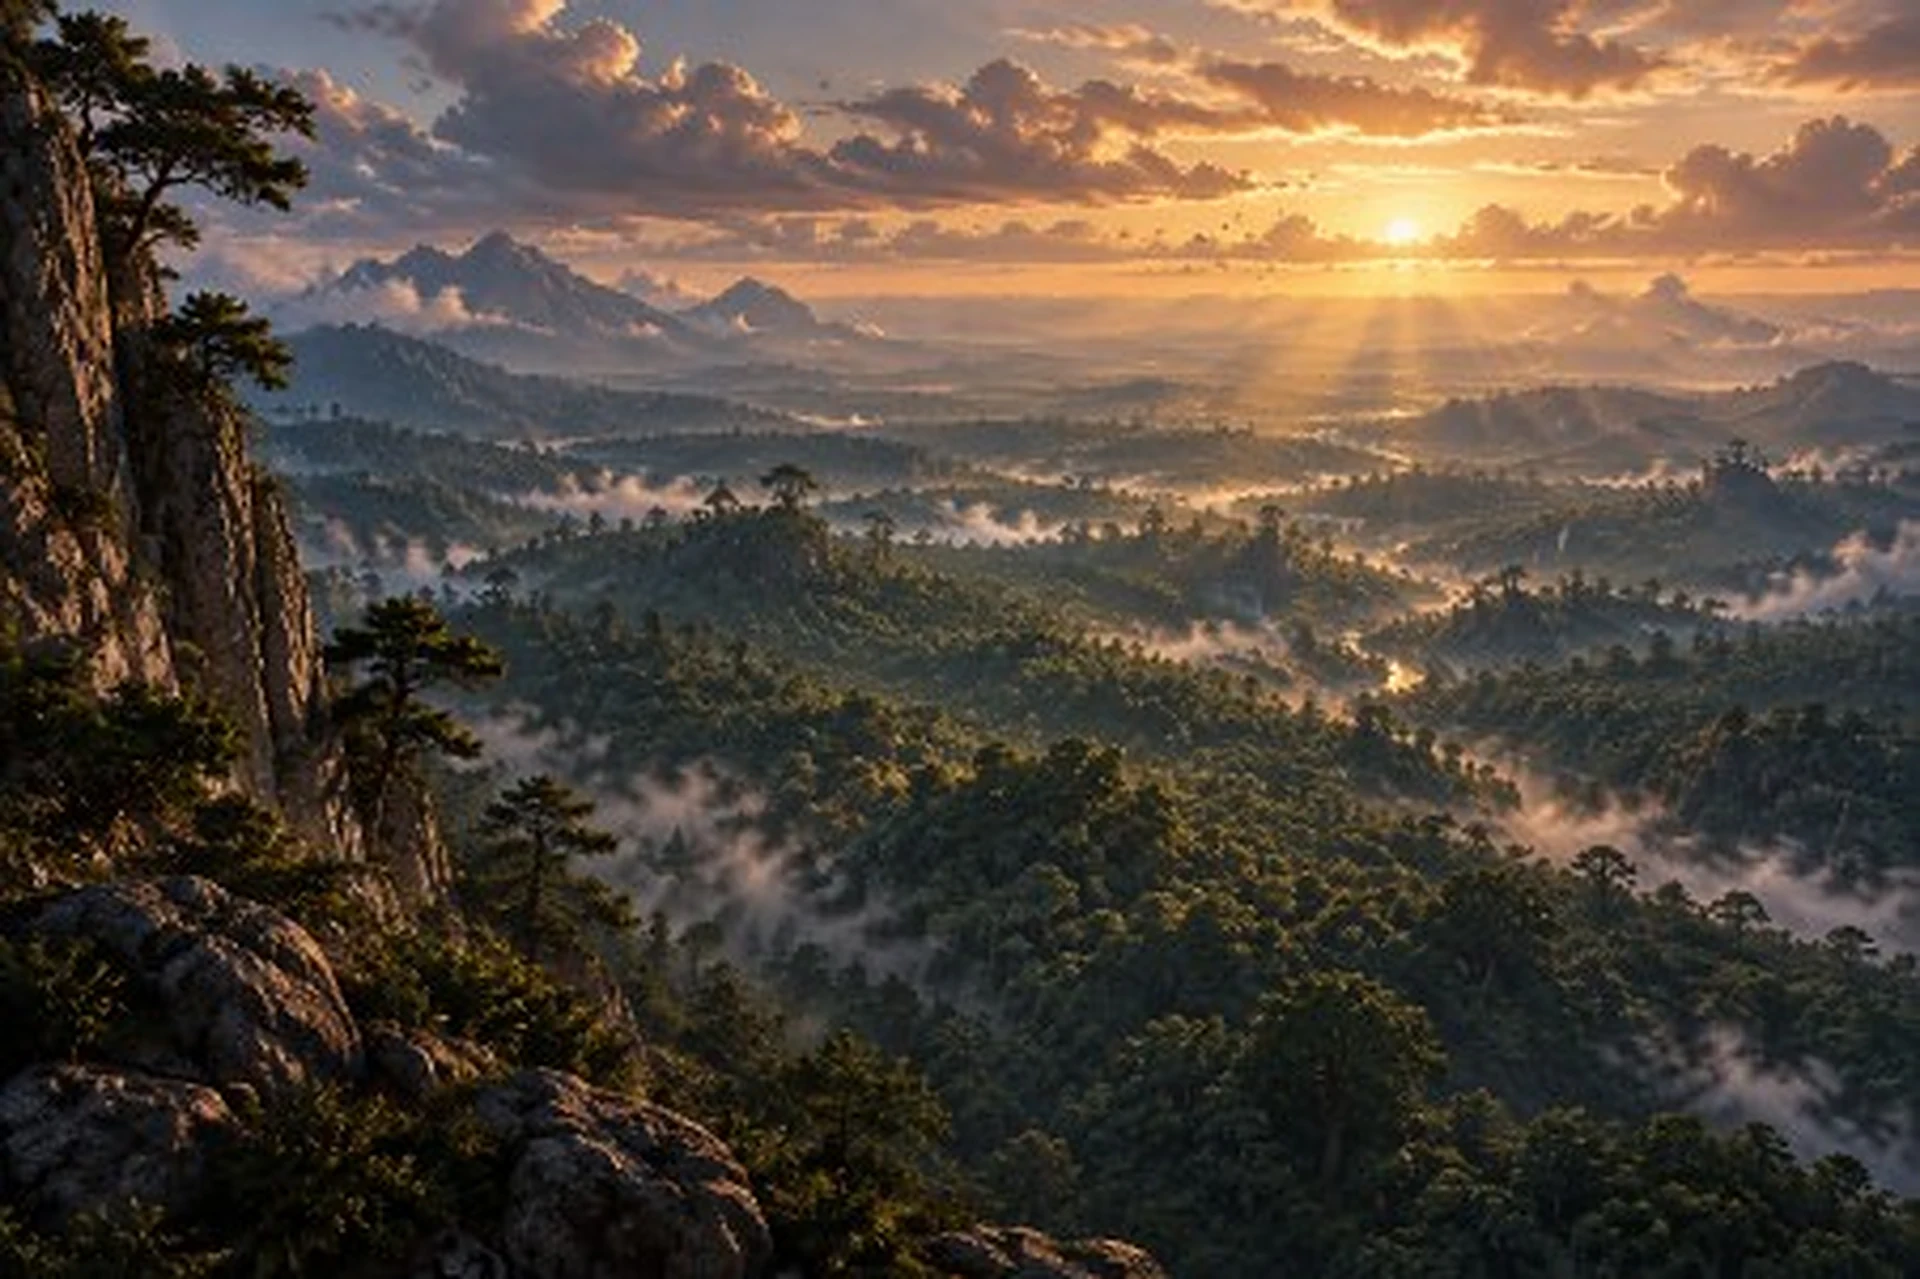
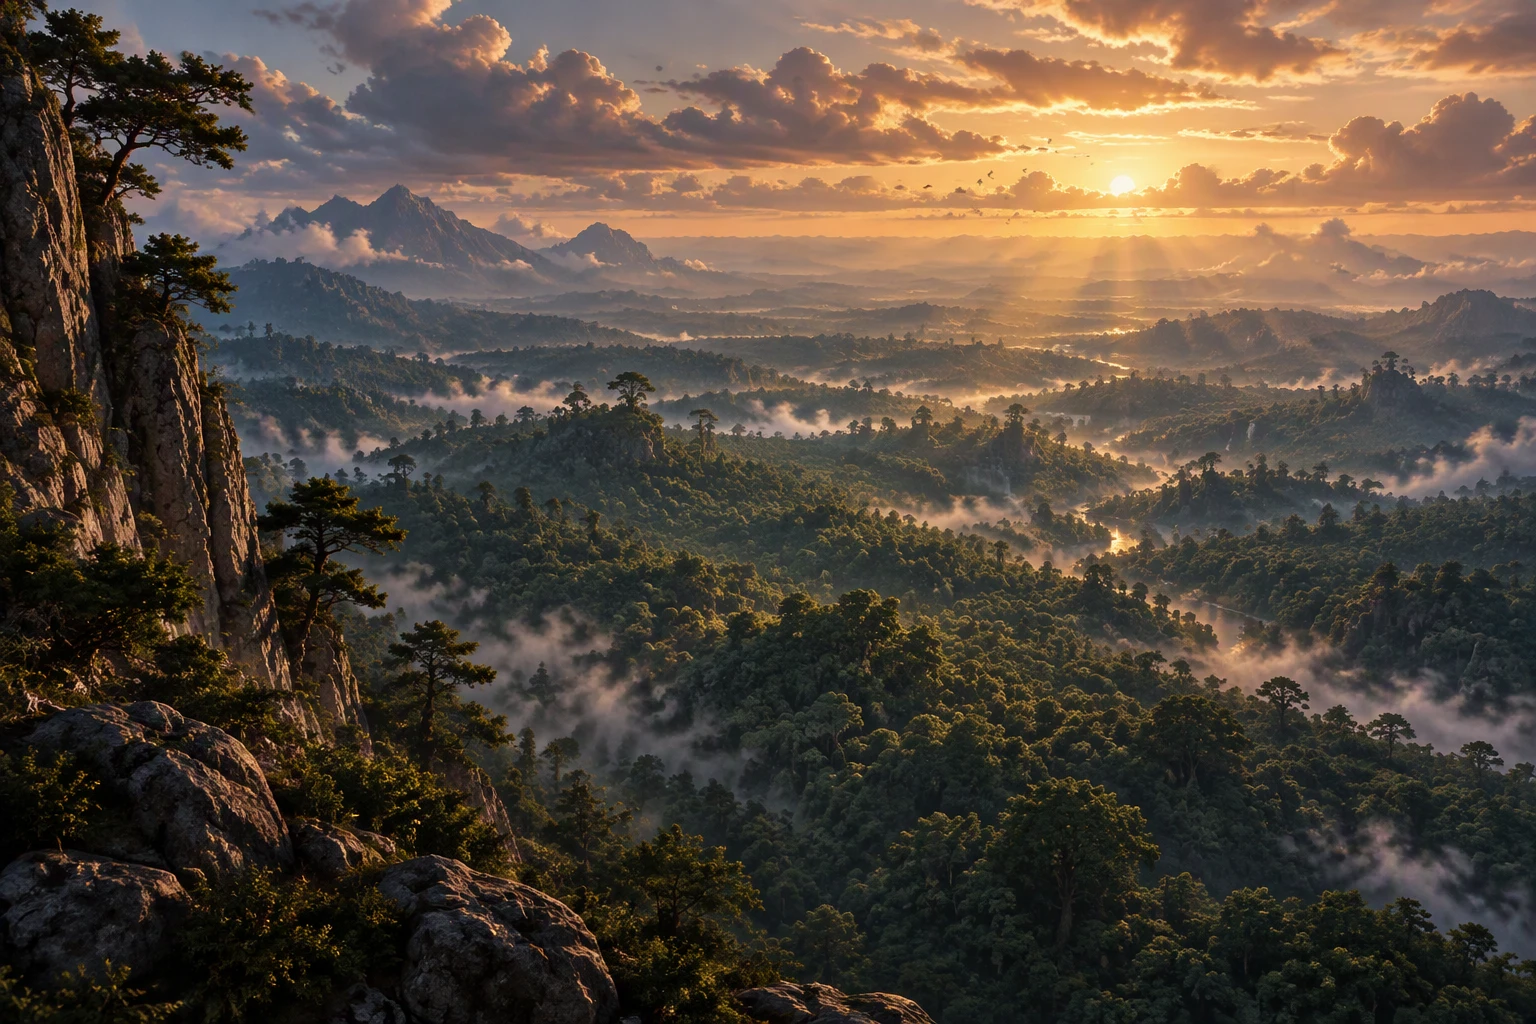
v98.194 prologue: sharp W05 forest picture
Claude-Session: https://claude.ai/code/session_01QVVPDec1aFiJuJ2zftfoDz

diff --git a/index.html b/index.html
@@ -1,5 +1,5 @@
 <!doctype html><html lang="th"><head><meta charset="utf-8"><meta name="viewport" content="width=device-width,initial-scale=1"><meta name="theme-color" content="#f5ecd5"><title>Agrenor: Paths Unwritten</title><link rel="stylesheet" href="css/thai-font.css?v=1"><link rel="stylesheet" href="css/mip-loader.css?v=2"><link rel="stylesheet" href="css/style.css"><link rel="stylesheet" href="css/layout.css"><link rel="stylesheet" href="css/paper-cards.css"><link rel="stylesheet" href="css/game-ui.css"><link rel="stylesheet" href="css/workshop-layout.css"><link rel="stylesheet" href="css/combat-ui.css"><link rel="stylesheet" href="css/village.css"><link rel="stylesheet" href="css/location-actions.css"><link rel="stylesheet" href="css/journey.css"><link rel="stylesheet" href="css/interface-v02.css"><link rel="stylesheet" href="css/ivory-v03.css"><link rel="stylesheet" href="css/tactics.css?v=79"><link rel="stylesheet" href="css/polish-v05.css"><link rel="stylesheet" href="css/card-studio.css"><link rel="stylesheet" href="css/battle-full.css"><link rel="stylesheet" href="css/adventure.css"><link rel="stylesheet" href="css/hand-cards.css"><link rel="stylesheet" href="css/battle-polish.css"><link rel="stylesheet" href="css/battle-controls-v34.css"><link rel="stylesheet" href="css/battle-flow.css?v=76"><link rel="stylesheet" href="css/battle-card-flow.css"><link rel="stylesheet" href="css/battle-juice.css?v=56">
-<link rel="stylesheet" href="css/town-font.css"><link rel="stylesheet" href="css/title-screen.css?v=97.15"><link rel="stylesheet" href="css/story.css?v=97.11"><script src="js/touch.js?v=94.02"></script><script src="js/webp-redirect.js?v=92.04"></script><script src="js/game-version.js?v=98.193"></script><script src="js/media-cache.js?v=1"></script><script src="js/dialogue-fx.js?v=2"></script><script src="js/mip-loader.js?v=1"></script><script src="js/new-game-prologue-kit.js?v=8"></script><script src="js/title-screen.js?v=98.192-prologue-kit"></script><style id="gameplay-no-editor-tools">
+<link rel="stylesheet" href="css/town-font.css"><link rel="stylesheet" href="css/title-screen.css?v=97.15"><link rel="stylesheet" href="css/story.css?v=97.11"><script src="js/touch.js?v=94.02"></script><script src="js/webp-redirect.js?v=92.04"></script><script src="js/game-version.js?v=98.194"></script><script src="js/media-cache.js?v=1"></script><script src="js/dialogue-fx.js?v=2"></script><script src="js/mip-loader.js?v=1"></script><script src="js/new-game-prologue-kit.js?v=9"></script><script src="js/title-screen.js?v=98.192-prologue-kit"></script><style id="gameplay-no-editor-tools">
 /* In normal play, hide development-only battle controls. They remain available in Editor mode. */
 body:not(.editor-mode) #anchorToggle,
 body:not(.editor-mode) #anchorEditor,

diff --git a/js/new-game-prologue-kit.js b/js/new-game-prologue-kit.js
@@ -6,7 +6,7 @@
 const BASE='assets/new-game-prologue/images/';
 // Future art workflow: after a reviewed WebP has been committed, add its ID to APPROVED_IMAGES.
 // Disabled by default; the existing SceneArt canvas provides a continuous illustrated fallback.
-const APPROVED_IMAGES=new Set(['W01','W02','W03','W05','W05a','W05b','W07','W08','W09','W09a','W11','W12','W13']); // images committed in assets/new-game-prologue/images (3 slots still need art: W04 W06 W10; W05 is a low-res 452x301 upscale)
+const APPROVED_IMAGES=new Set(['W01','W02','W03','W05','W05a','W05b','W07','W08','W09','W09a','W11','W12','W13']); // images committed in assets/new-game-prologue/images (3 slots still need art: W04 W06 W10)
 const SLOTS=[
     {
       "id": "W01",
@@ -48,6 +48,7 @@ const SLOTS=[
     {
       "id": "W05",
       "fx": "mist",
+      "pos": "50% 20%",
       "title": "มหาพงไพรตะวันออก",
       "art": "deepwood",
       "text": "ส่วนทางตะวันออก มหาพงไพรทอดตัวไกลเกินขอบแผนที่\nภายใต้ร่มไม้ยังมีเรื่องราวที่โลกภายนอกไม่อาจยืนยัน",

diff --git a/editor.html b/editor.html
@@ -32,7 +32,7 @@ iframe[hidden]{display:none}
 </header>
 <div class="note" id="note"></div><div id="editorConflict" hidden role="status"></div>
 <main id="frames"></main>
-<script src="js/webp-redirect.js?v=92.04"></script><script src="js/game-version.js?v=98.193"></script><script src="js/game-settings.js?v=98.150"></script><script src="js/layout-sync.js?v=98.96"></script><script src="js/editor-deploy-status.js?v=91.45"></script><script src="js/game-dialog.js"></script><script src="js/github-push.js"></script><script src="js/manifest-merge.js?v=98.136"></script><script>
+<script src="js/webp-redirect.js?v=92.04"></script><script src="js/game-version.js?v=98.194"></script><script src="js/game-settings.js?v=98.150"></script><script src="js/layout-sync.js?v=98.96"></script><script src="js/editor-deploy-status.js?v=91.45"></script><script src="js/game-dialog.js"></script><script src="js/github-push.js"></script><script src="js/manifest-merge.js?v=98.136"></script><script>
 // Editor shell: every tool runs in its own frame; the game opens in "editor mode" (no play-save writes).
 // All tools share this browser's storage with the game — reload the game to see changes.
 const TABS=[

diff --git a/js/game-version.js b/js/game-version.js
@@ -2,6 +2,6 @@
    Major release: increment the main number (v80 → v81).
    Small patch (⬆ Push from an editor): increment the suffix counter (v81.13 → v81.14; treat it as a sequence, not a decimal).
    The commit message starts with the same version. Editor pushes bump the suffix automatically. */
-window.GAME_VERSION={v:'v98.193',date:'2026-11-07',repo:'ekkavish31/Project-Agrenor-Tactical-Card-Game'};
+window.GAME_VERSION={v:'v98.194',date:'2026-11-07',repo:'ekkavish31/Project-Agrenor-Tactical-Card-Game'};
 /* v91.94 · asset cache (sw.js): reloads reuse the ~60 MB of map images; a new version fetches them once; Ctrl+F5 refreshes the stored copies */
 try{if('serviceWorker' in navigator&&/^https?:$/.test(location.protocol))navigator.serviceWorker.register('sw.js?v='+encodeURIComponent(window.GAME_VERSION.v)).catch(()=>{})}catch(e){}

diff --git a/docs/TODO.md b/docs/TODO.md
@@ -494,7 +494,7 @@
 ประเด็นให้ session ต่อไปอ่านก่อน: มนุษย์พบธาตุดิน น้ำ ลมบ่อยแต่เกิดธาตุอื่นได้; การสืบทอดแก่นไม่ตรงตามธาตุเฉพาะตัวของพ่อแม่; การ์ดเป็นวงจรใช้พลังผู้ถือ; การ์ดใช้ซ้ำกับการ์ดชั่วคราวต่างกัน; เผาทิ้งในหน้าจัดสำรับไม่ใช่ท่า combat; การ์ดต้องมีผู้ผลิต/ผู้ครอบครอง ไม่เกิดจากการตายของมอนสเตอร์; ความจริงต้นแบบโบราณไม่เท่ากับความรู้ของคนช่วงต้นเกม
 
 - [x] LC0 เก็บ Word ต้นฉบับทั้งสองและฉบับข้อความ พร้อมจุดอ่านต่อใน AGENTS/GAME-ERA/source README (เอกสารเท่านั้น)
-- [ ] NG1 ภาพบทนำ New Game ที่ยังต้องเจน 3 ภาพ: W04 southern-firelands · W06 civilizations · W10 traveler-card (ห้ามเห็นหน้า) · ใช้ภาพชั่วคราว (ควรเจนใหม่ 1920×1080): W05 eastern-great-forest (ภาพ 452×301 ขยาย · ยังไม่มีต้นไม้ยักษ์) — ดู `docs/NEW-GAME-PROLOGUE-KIT.md` / `data/new-game-prologue-assets.json` · prompt พร้อมใช้ที่ `docs/NEW-GAME-PROLOGUE-PROMPTS.md` · หน้าที่รอภาพขึ้น "Waiting for Pic" จนกว่าจะใส่ไฟล์และเพิ่มรหัสใน `APPROVED_IMAGES`
+- [ ] NG1 ภาพบทนำ New Game ที่ยังต้องเจน 3 ภาพ: W04 southern-firelands · W06 civilizations · W10 traveler-card (ห้ามเห็นหน้า) — ดู `docs/NEW-GAME-PROLOGUE-KIT.md` / `data/new-game-prologue-assets.json` · prompt พร้อมใช้ที่ `docs/NEW-GAME-PROLOGUE-PROMPTS.md` · หน้าที่รอภาพขึ้น "Waiting for Pic" จนกว่าจะใส่ไฟล์และเพิ่มรหัสใน `APPROVED_IMAGES`
 - [ ] LC1 **รอผู้ใช้เรียกทำ** ตรวจ dependency ราย NPC/สถานที่/เควส/ฉาก/ตารางเวลา/ร้าน/เซฟ แล้วส่งตารางผลกระทบและ diff เชิงเนื้อเรื่องตามหมวด 7 ของ Revision Brief ก่อนแก้โค้ด
 - [ ] LC2 **รอผู้ใช้เรียกทำ** ตรวจระบบการ์ด reward/loot/status เทียบ Canon และเสนอวิธีปรับพร้อม regression checks; ไม่อ้างว่านำเข้าเกมแล้ว
 - [ ] LC3 **รอผู้ใช้เรียกทำ** ตรวจข้อขัดแย้งกับ GAME-ERA, Lore v10, Codex v10a และแผน World Event; แยกแก้ตาม Canon ที่ยืนยันแล้วจาก Retcon/คำเฉลยที่ต้องตัดสิน ห้ามเดา G. ผู้สร้างการ์ดโบราณหรือเงื่อนไขเปิดใช้แผ่นหิน

diff --git a/docs/NEW-GAME-PROLOGUE-KIT.md b/docs/NEW-GAME-PROLOGUE-KIT.md
@@ -1,5 +1,5 @@
 # Agrenor — New Game Prologue Kit v1
-> Status: **kit v2 merged / 18 pages · 13 art slots enabled (W05 low-res) · W04, W06 and W10 show a "Waiting for Pic" board until their art arrives**. This is **New Game** after clicking the menu, NOT the maker logo/title-opening video.
+> Status: **kit v2 merged / 18 pages · 13 art slots enabled · W04, W06 and W10 show a "Waiting for Pic" board until their art arrives**. This is **New Game** after clicking the menu, NOT the maker logo/title-opening video.
 > Current source of truth: `docs/lore/CURRENT-ERA-CANON.md` (approved section A), and game baseline/constraints.
 
 ## Playback wiring
@@ -18,7 +18,7 @@
 | 2 | W02 | ดินแดนเหนือ | `northern-snowlands.webp` | **ใช้แล้ว** (มีสัตว์ตัวใหญ่ 3 ตัวเดินบนสันเขา เป็นเงาเล็กๆ ไม่ระบุชนิด) |
 | 3 | W03 | หมู่เกาะตะวันตก | `western-archipelago.webp` | **ใช้แล้ว** (เมืองท่า ประภาคาร เรือใบ · สถาปัตย์/เรือมีกลิ่นตะวันออก ไม่ระบุชื่อเมืองหรือชนชาติ) |
 | 4 | W04 | ดินแดนใต้ | `southern-firelands.webp` | TODO |
-| 5 | W05 | มหาพงไพรตะวันออก | `eastern-great-forest.webp` | **ใช้แล้ว (ชั่วคราว)** ภาพ 452×301 ขยาย · เนินป่าหมอกยามเย็น ยังไม่มีต้นไม้ยักษ์ ควรเจนใหม่ |
+| 5 | W05 | มหาพงไพรตะวันออก | `eastern-great-forest.webp` | **ใช้แล้ว** ภาพ 1536×1024 คมชัด (แทนภาพ 452×301) · ป่าเต็มหมอก แสงทองยามเย็น ยังไม่มีต้นไม้ยักษ์เด่น |
 | 6 | W05a | เรื่องเล่าจากป่าลึก (บทเดิม · นครแสง/นครมืด) | `ancient-ruins-forest.webp` | **ใช้แล้ว** |
 | 7 | W05b | อดีตที่เหลือเพียงร่องรอย (บทเดิมเรียบเรียงตาม Canon B · ภาพสลักสามร่าง) | `ancient-relief.webp` | **ใช้แล้ว** |
 | 8 | W06 | ผู้คนหลายอารยธรรม | `civilizations.webp` | TODO |

diff --git a/docs/CHANGELOG-TH.md b/docs/CHANGELOG-TH.md
@@ -4054,3 +4054,7 @@ v35b: เปลี่ยนการหมุนสนามจาก crossfade 
 - **เปิดภาพ W05 มหาพงไพรตะวันออก (ชั่วคราว)** (`eastern-great-forest.webp`): ภาพต้นฉบับเล็ก 452×301 ขยายเป็น 1920 กว้าง (Lanczos + unsharp เบาๆ) · เนินป่าเต็มหมอกยามเย็น ลำแสงทอง · ยังไม่มีต้นไม้ยักษ์ตามที่ prompt ขอ และไม่มีซากโบราณให้เห็น (ตรงกับข้อห้ามของหน้านี้) · ควรเจนใหม่
 - วัดโทนเทียบภาพที่อนุมัติแล้ว (ความสว่าง/ความอิ่มสี/ความอบอุ่น/คอนทราสต์): W03 อยู่ในช่วงเดียวกับชุดเดิม (อิ่มสี 0.51 สูงกว่าค่ากลาง 0.33–0.40 เล็กน้อย ใกล้ภาพบ้านตัวเอก 0.47), W05 โทนเข้ากันแต่คมน้อย (ค่าความคมต่ำกว่าภาพอื่น ~2.5–8 เท่าเพราะความละเอียดต่ำ)
 - ทดสอบเล่น New Game ถึงหน้า W03 W04 W05: ภาพขึ้นถูก ลูกเล่น wave / ember / mist ทำงาน W04 ยังเป็น "Waiting for Pic" ไม่มี error · เหลือหน้าที่รอภาพ 3 หน้า (W04 W06 W10)
+
+# v98.194 — 7 พฤศจิกายน 2026
+
+- **เปลี่ยนภาพ W05 มหาพงไพรเป็นภาพคมชัดใหม่** (1536×1024 แทนภาพ 452×301 ที่ขยาย) · ภาพ 3:2 จึงเพิ่ม `pos:"50% 20%"` ให้เก็บดวงทองและขอบฟ้าไว้ · เหลือหน้าที่รอภาพ 3 หน้า (W04 W06 W10)

diff --git a/assets/new-game-prologue/README.md b/assets/new-game-prologue/README.md
@@ -1,7 +1,7 @@
 # New Game Prologue — Illustration Drop Zone
 
 `assets/new-game-prologue/images/` holds the prologue pictures (WebP, 16:9; supplied files are 1672×941 and are shown with `background-size: cover`).
-Enabled now (13): world-panorama, western-archipelago, eastern-great-forest (low-res upscale of 452x301, replace later), northern-snowlands, ancient-ruins-forest, ancient-relief, norchorthal-valley, human-civilization, card-crafting, card-inventor-book, travelers-stories, road-to-fernvale, fernvale-morning.
+Enabled now (13): world-panorama, western-archipelago, eastern-great-forest, northern-snowlands, ancient-ruins-forest, ancient-relief, norchorthal-valley, human-civilization, card-crafting, card-inventor-book, travelers-stories, road-to-fernvale, fernvale-morning.
 Still to create (3): southern-firelands (W04), civilizations (W06), traveler-card (W10). Pages W11a and W13a reuse the pictures of W11 / W13.
 
 After adding an approved image, add its slot ID to `APPROVED_IMAGES` in `js/new-game-prologue-kit.js`; until then that page shows a "Waiting for Pic" board. See `docs/NEW-GAME-PROLOGUE-KIT.md` and `data/new-game-prologue-assets.json`.
